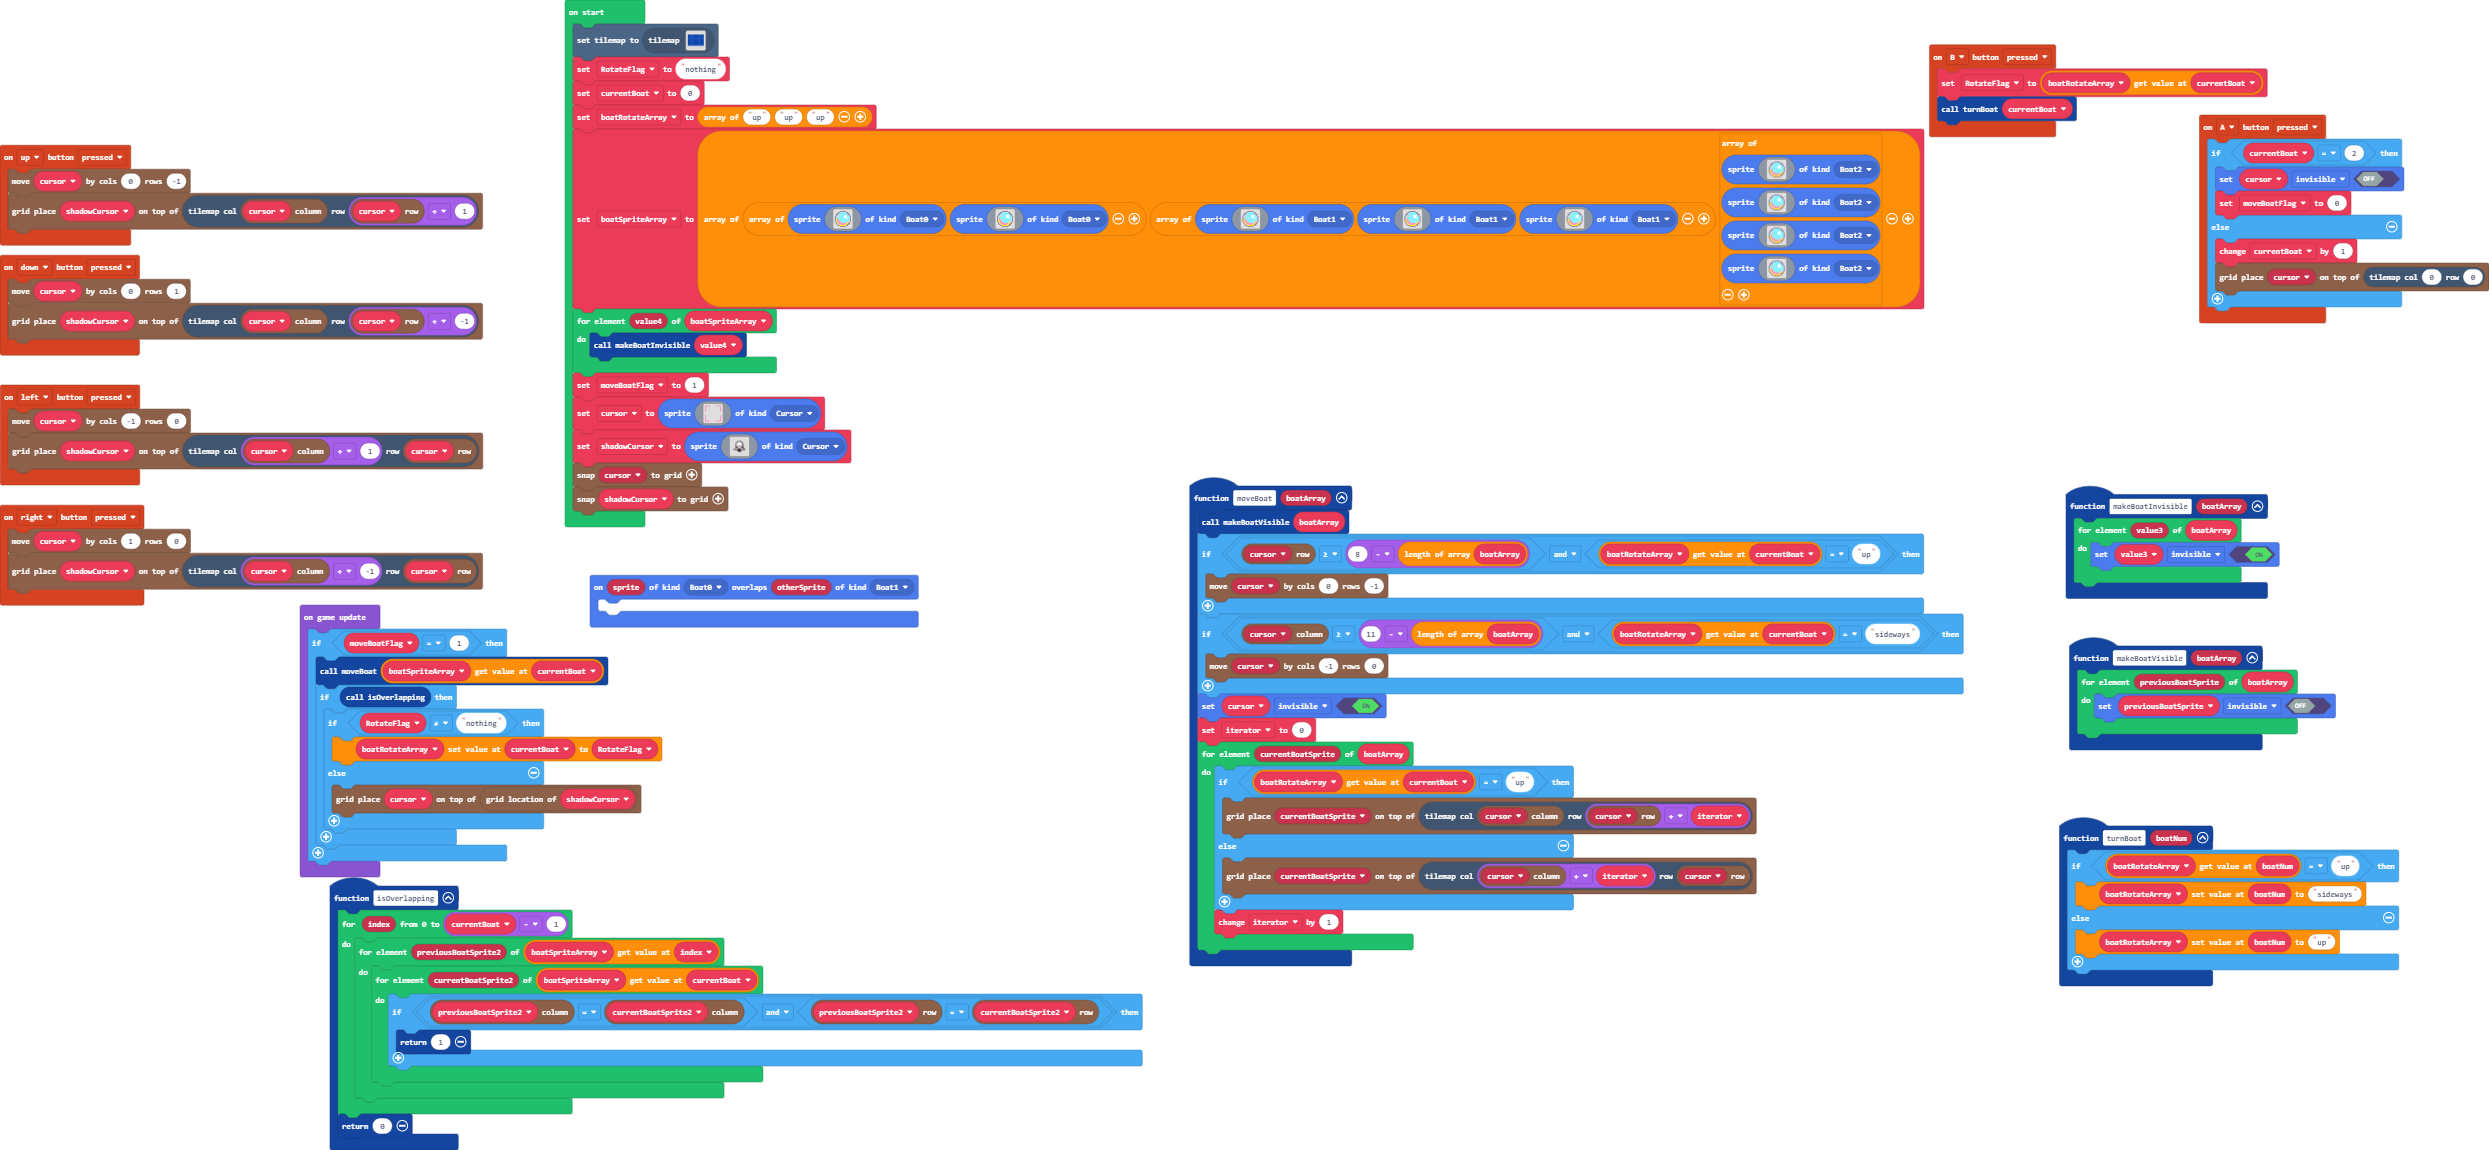
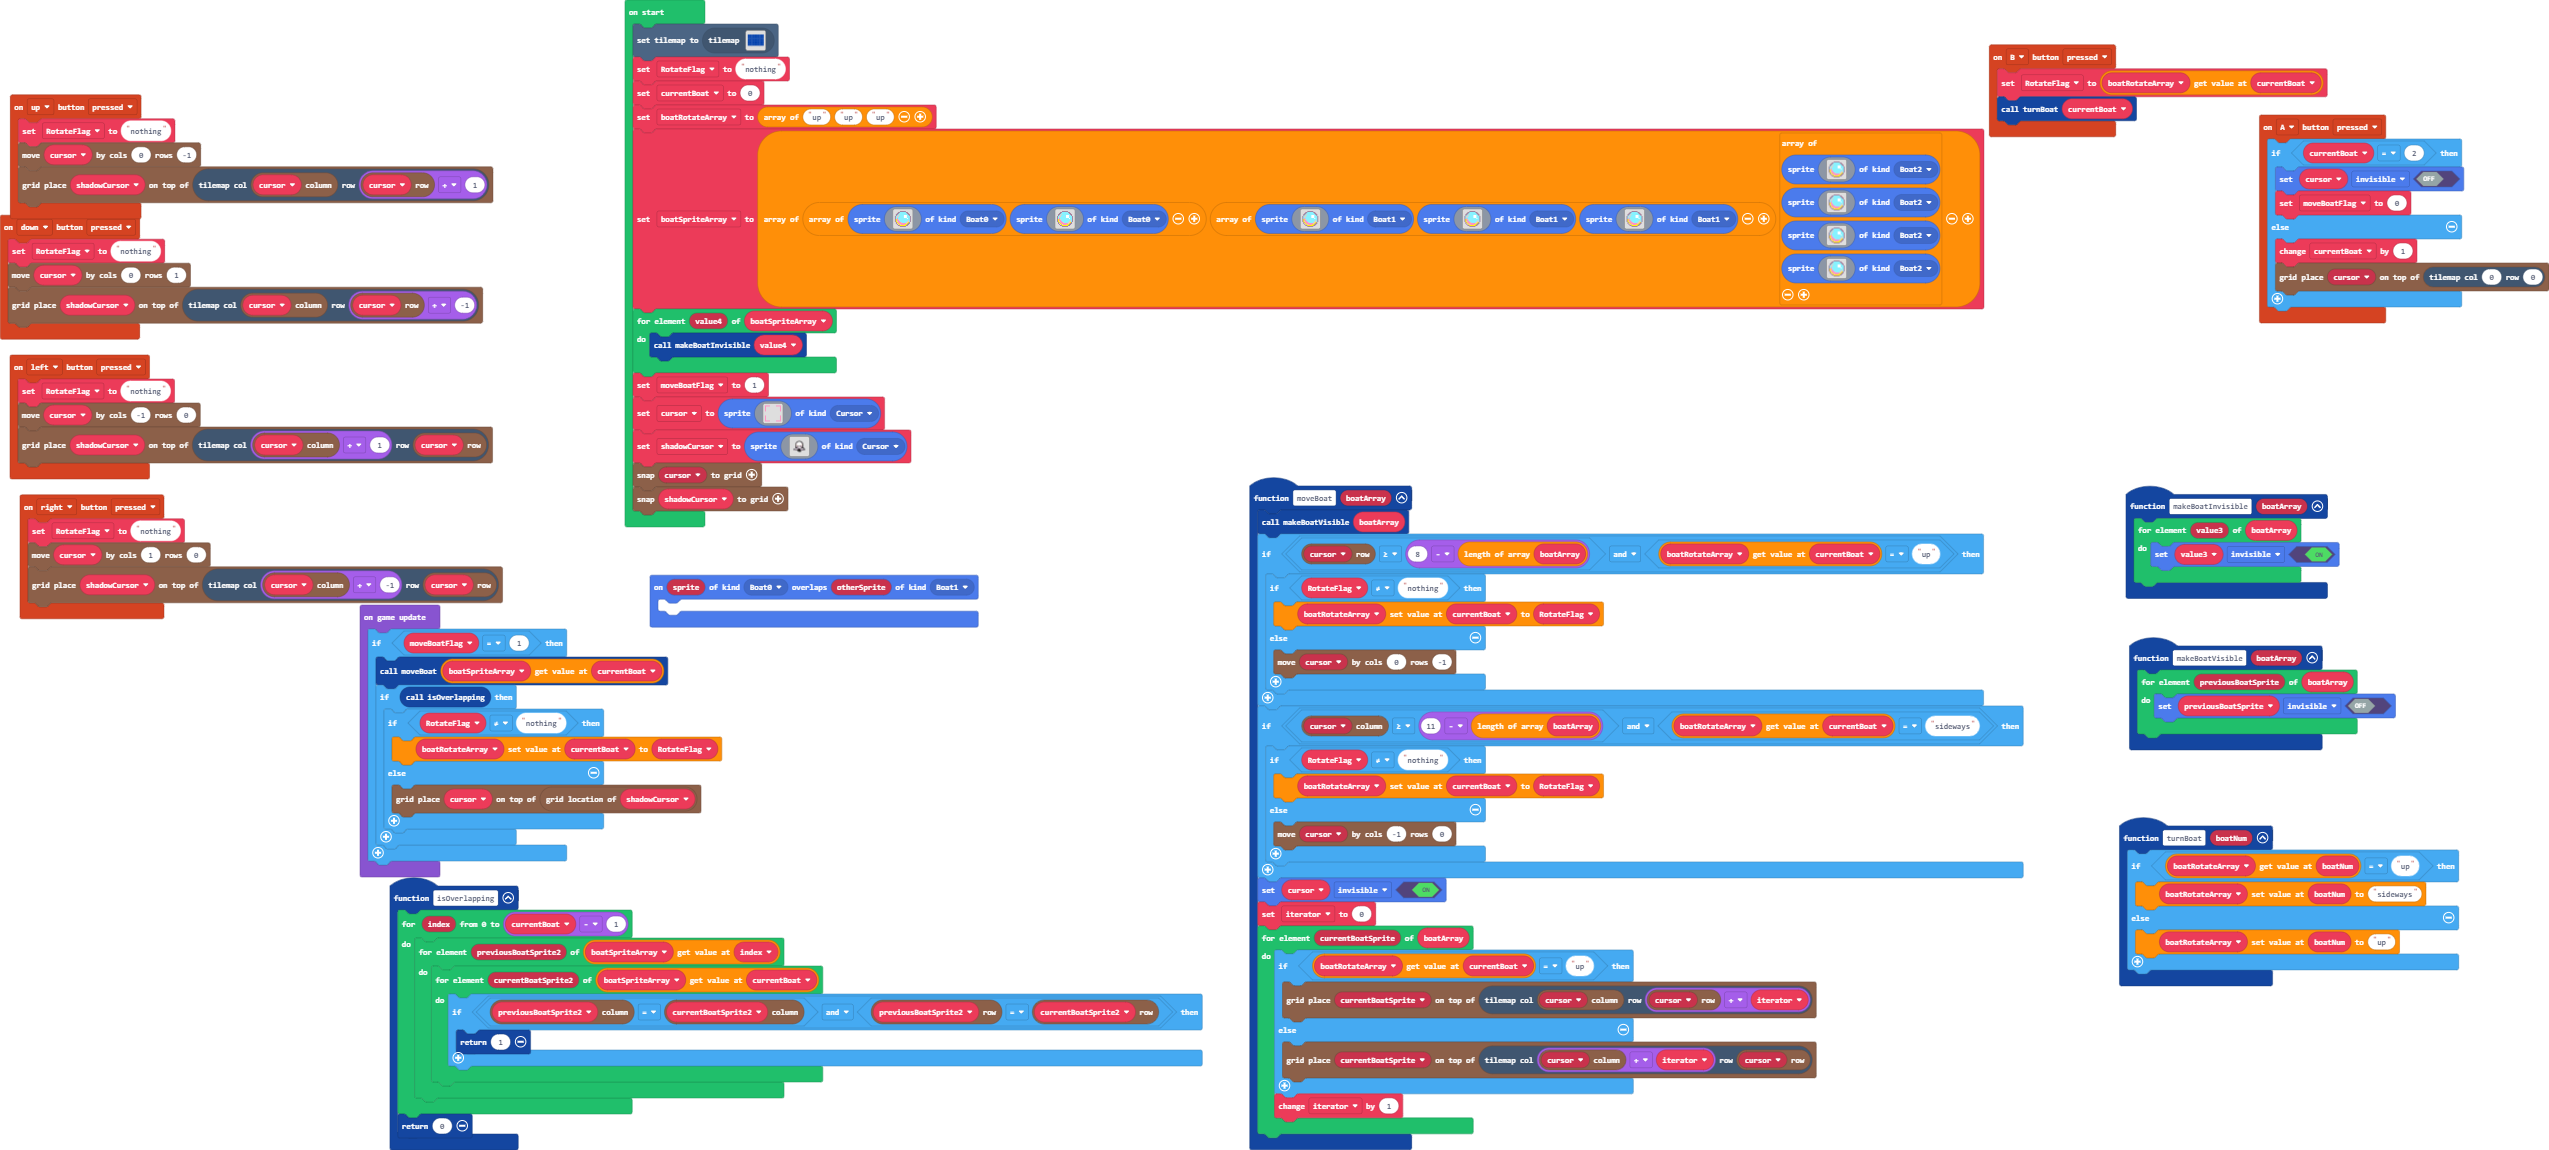
fixed rotate bug (bottom screen)

Changed region(s): [[0.0, 0.0, 0.959, 1.0], [0.2784, 0.9435, 0.3094, 0.9739], [0.2166, 0.9435, 0.2475, 0.9739]]

diff --git a/main.ts b/main.ts
@@ -5,6 +5,7 @@ namespace SpriteKind {
     export const Boat2 = SpriteKind.create()
 }
 controller.up.onEvent(ControllerButtonEvent.Pressed, function () {
+    RotateFlag = "nothing"
     grid.move(cursor, 0, -1)
     grid.place(shadowCursor, tiles.getTileLocation(grid.spriteCol(cursor), grid.spriteRow(cursor) + 1))
 })
@@ -30,20 +31,30 @@ controller.A.onEvent(ControllerButtonEvent.Pressed, function () {
     }
 })
 controller.left.onEvent(ControllerButtonEvent.Pressed, function () {
+    RotateFlag = "nothing"
     grid.move(cursor, -1, 0)
     grid.place(shadowCursor, tiles.getTileLocation(grid.spriteCol(cursor) + 1, grid.spriteRow(cursor)))
 })
 controller.right.onEvent(ControllerButtonEvent.Pressed, function () {
+    RotateFlag = "nothing"
     grid.move(cursor, 1, 0)
     grid.place(shadowCursor, tiles.getTileLocation(grid.spriteCol(cursor) + -1, grid.spriteRow(cursor)))
 })
 function moveBoat (boatArray: any[]) {
     makeBoatVisible(boatArray)
     if (grid.spriteRow(cursor) >= 8 - boatArray.length && boatRotateArray[currentBoat] == "up") {
-        grid.move(cursor, 0, -1)
+        if (RotateFlag != "nothing") {
+            boatRotateArray[currentBoat] = RotateFlag
+        } else {
+            grid.move(cursor, 0, -1)
+        }
     }
     if (grid.spriteCol(cursor) >= 11 - boatArray.length && boatRotateArray[currentBoat] == "sideways") {
-        grid.move(cursor, -1, 0)
+        if (RotateFlag != "nothing") {
+            boatRotateArray[currentBoat] = RotateFlag
+        } else {
+            grid.move(cursor, -1, 0)
+        }
     }
     cursor.setFlag(SpriteFlag.Invisible, true)
     iterator = 0
@@ -57,6 +68,7 @@ function moveBoat (boatArray: any[]) {
     }
 }
 controller.down.onEvent(ControllerButtonEvent.Pressed, function () {
+    RotateFlag = "nothing"
     grid.move(cursor, 0, 1)
     grid.place(shadowCursor, tiles.getTileLocation(grid.spriteCol(cursor), grid.spriteRow(cursor) + -1))
 })
